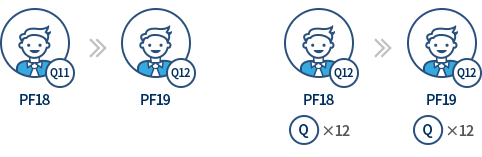
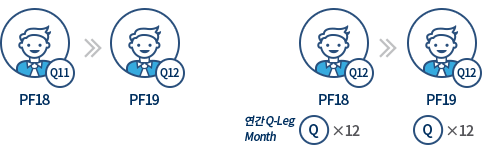
특별보상프로그램

diff --git a/_ui/responsive/theme-blue/css/akl-business.css b/_ui/responsive/theme-blue/css/akl-business.css
@@ -387,12 +387,14 @@
 .box-diagram04 p.text-tit { text-align:center; padding:37px 0 20px;font-weight:500; font-size:18px; }
 .box-diagram04 p strong {color:#e11e45; font-weight:700; font-size:22px;}
 .box-diagram04 dl { float:left; width:50%; text-align:center; height:222px; }
-.box-diagram04 dl + dl { border-left:1px solid #e3e3e3 }
+.box-diagram04 dl + dl { border-left:1px solid #e3e3e3; }
 .box-diagram04 dl dt{ font-size:14px!important; margin-bottom:10px; }
 .box-diagram04 dl dd .text-hidden {display:block; width:200px; height:158px; text-indent:-999px; overflow:hidden; margin:0 auto }
 .box-diagram04 dl dd .list-type2 { text-align:left; padding:0 20px}
-.box-diagram04-left dl.case01 dd .text-hidden{background:url("../images/akl_common/business/img_rewards_travel23_pc.png") no-repeat 0 0;}
-.box-diagram04-left dl.case02 dd .text-hidden{background:url("../images/akl_common/business/img_rewards_travel23_pc.png") no-repeat right 0;}
+.box-diagram04-left dl { width:45%; }
+.box-diagram04-left dl + dl { width:55%; }
+.box-diagram04-left dl.case01 dd .text-hidden{ width:200px;  background:url("../images/akl_common/business/img_rewards_travel23_pc.png") no-repeat 0 0;}
+.box-diagram04-left dl.case02 dd .text-hidden{ width:240px; background:url("../images/akl_common/business/img_rewards_travel23_pc.png") no-repeat right 0;}
 .box-diagram04-right dl { width:33.3333% }
 .box-diagram04-right dt { padding-top:35px; color:#002f5f; margin-bottom:5px!important;}
 .box-diagram04-right dd p {font-weight:500; }
@@ -403,7 +405,7 @@
 .box-diagram04-right dl.case03 dt em{ width:92px; background-position:-370px 0px;}
 .box-diagram04 .plus { position:absolute; left:50%;top:24px; margin-left:-25px; width:50px; height:50px; border-radius:36px; background:#fff url(../images/akl_common/business/img_rewards_travel22_pc.png) no-repeat 12px -382px; text-indent:-999px;}
 
-.box-diagram04 .plus { position:absolute; left:50%;top:50%; margin-left:-25px; margin-top:-25px; width:50px; height:50px; border-radius:36px; background:#fff url(../images/akl_common/business/img_rewards_travel22_pc.png) no-repeat 12px -382px; text-indent:-999px;}
+.box-diagram04 .plus { position:absolute; left:50%;top:60px; margin-left:-25px; margin-top:-25px; width:50px; height:50px; border-radius:36px; background:#fff url(../images/akl_common/business/img_rewards_travel22_pc.png) no-repeat 12px -382px; text-indent:-999px;}
 
 .list-type5.busi02 li{ margin-bottom:13px; }
 .list-type5.busi02 li > strong { display:block; margin-bottom:10px; font-size:16px; }
@@ -1291,6 +1293,8 @@ ul.woo-step-box li:last-child:before {background:none}
 	.box-diagram04-right dl { width:auto; padding-bottom:25px }
 	.box-diagram04-right dl.case01 dt { padding-top:10px}
 	.box-diagram04 .plus {  top:50%;  margin-top:-126px; }
+	.box-diagram04-left dl { width:auto; }
+	.box-diagram04-left dl + dl { width:auto; }
 }
 
 @media (max-width: 360px) {

diff --git a/_ui/responsive/html/business/G20324.html b/_ui/responsive/html/business/G20324.html
@@ -231,23 +231,35 @@
 									</tr>
 									<tr>
 										<td class="fixed-side">PF18 유 자격 레그 수</td>
-										<td>Q</td>
-										<td>F</td>
-										<td>RF</td>
-										<td>F</td>
-										<td>F</td>
-										<td>F</td>
-										<td></td>
-										<td class="thisMonth"></td>
-										<td></td>
-										<td></td>
-										<td></td>
-										<td></td>
+										<td>20</td>
+										<td>20</td>
+										<td>20</td>
+										<td>20</td>
+										<td>20</td>
+										<td>20</td>
+										<td>20</td>
+										<td class="thisMonth">20</td>
+										<td>20</td>
+										<td>20</td>
+										<td>20</td>
+										<td>20</td>
 										<td class="colspan-line">240</td>
 									</tr>
 									<tr>
-										<td class="fixed-side">PF19 유 자격 레그 수</td>
-										<td colspan="13" class="no-result">조회 결과가 없습니다.</td>
+										<td class="fixed-side">PF18 유 자격 레그 수</td>
+										<td>20</td>
+										<td>20</td>
+										<td>20</td>
+										<td>20</td>
+										<td>20</td>
+										<td>20</td>
+										<td>20</td>
+										<td class="thisMonth">20</td>
+										<td>20</td>
+										<td>20</td>
+										<td>20</td>
+										<td>20</td>
+										<td class="colspan-line">240</td>
 									</tr>
 								</tbody>
 							</table>
@@ -299,7 +311,7 @@
 																<dd>
 																	<span class="text-hidden">PF18 : Q11 → PF18 : Q12</span>
 																	<ul class="list-type2">
-																		<li>연간 Q-Leg Month : 국내에서 직접/대리로 후원하는 월별 21% 유자격 레그 수의 연간 총합</li>
+																		<li>국내에서 직접/대리로 후원하는 월별 21% 유자격 레그 수의 연간 총합</li>
 														            </ul>
 																</dd>
 															</dl>

diff --git a/_ui/responsive/html/business/G20323.html b/_ui/responsive/html/business/G20323.html
@@ -391,8 +391,8 @@
 
 					<div class="tbl-list-board">
 						<div class="tr">
-							<div class="th order-sum">개인별 성장 기준</div><div class="td left">2018</div>
-							<div class="th order-sum">회계연도 12개월 평균</div><div class="td left">5.0 > 5 (소수 버림)</div>
+							<div class="th order-sum">개인별 성장 기준 년도</div><div class="td left">2018</div>
+							<div class="th order-sum">회계연도 12개월 평균</div><div class="td left">20.0 > <strong class="fsize18 color-blue">20</strong> (소수 버림)</div>
 						</div>
 					</div>
 
@@ -431,8 +431,8 @@
 												<dd>익월 15일 </dd>
 
 												<dt>보너스 금액</dt>
-												<dd>월별 유 자격 레그 수 유지시 해당월 에메랄드 Depth 보너스 그룹 BV 실적의 0.5% 지급<br>
-										 			월별 유 자격 레그 수 성장시 해당월 에메랄드 Depth 보너스 그룹 BV 실적의 1.0% 지급</dd>
+												<dd>월별 유 자격 레그 수 <strong class="f-medim color-blue">유지시</strong> 해당월 에메랄드 Depth 보너스 그룹 BV 실적의 0.5% 지급<br>
+										 			월별 유 자격 레그 수 <strong class="f-medim color-blue">성장시</strong>  해당월 에메랄드 Depth 보너스 그룹 BV 실적의 1.0% 지급</dd>
 											</dl>
 					                    </div>
 					                </div>

diff --git a/_ui/responsive/theme-blue/css/akl-common.css b/_ui/responsive/theme-blue/css/akl-common.css
@@ -148,6 +148,7 @@ b,strong{font-weight:500; }
 
 
 /* common > font-size  */
+.fsize18 {font-size:18px !important;}
 .fsize16 {font-size:16px !important;}
 .fsize15 {font-size:15px !important;}
 .fsize14 {font-size:14px !important;}
